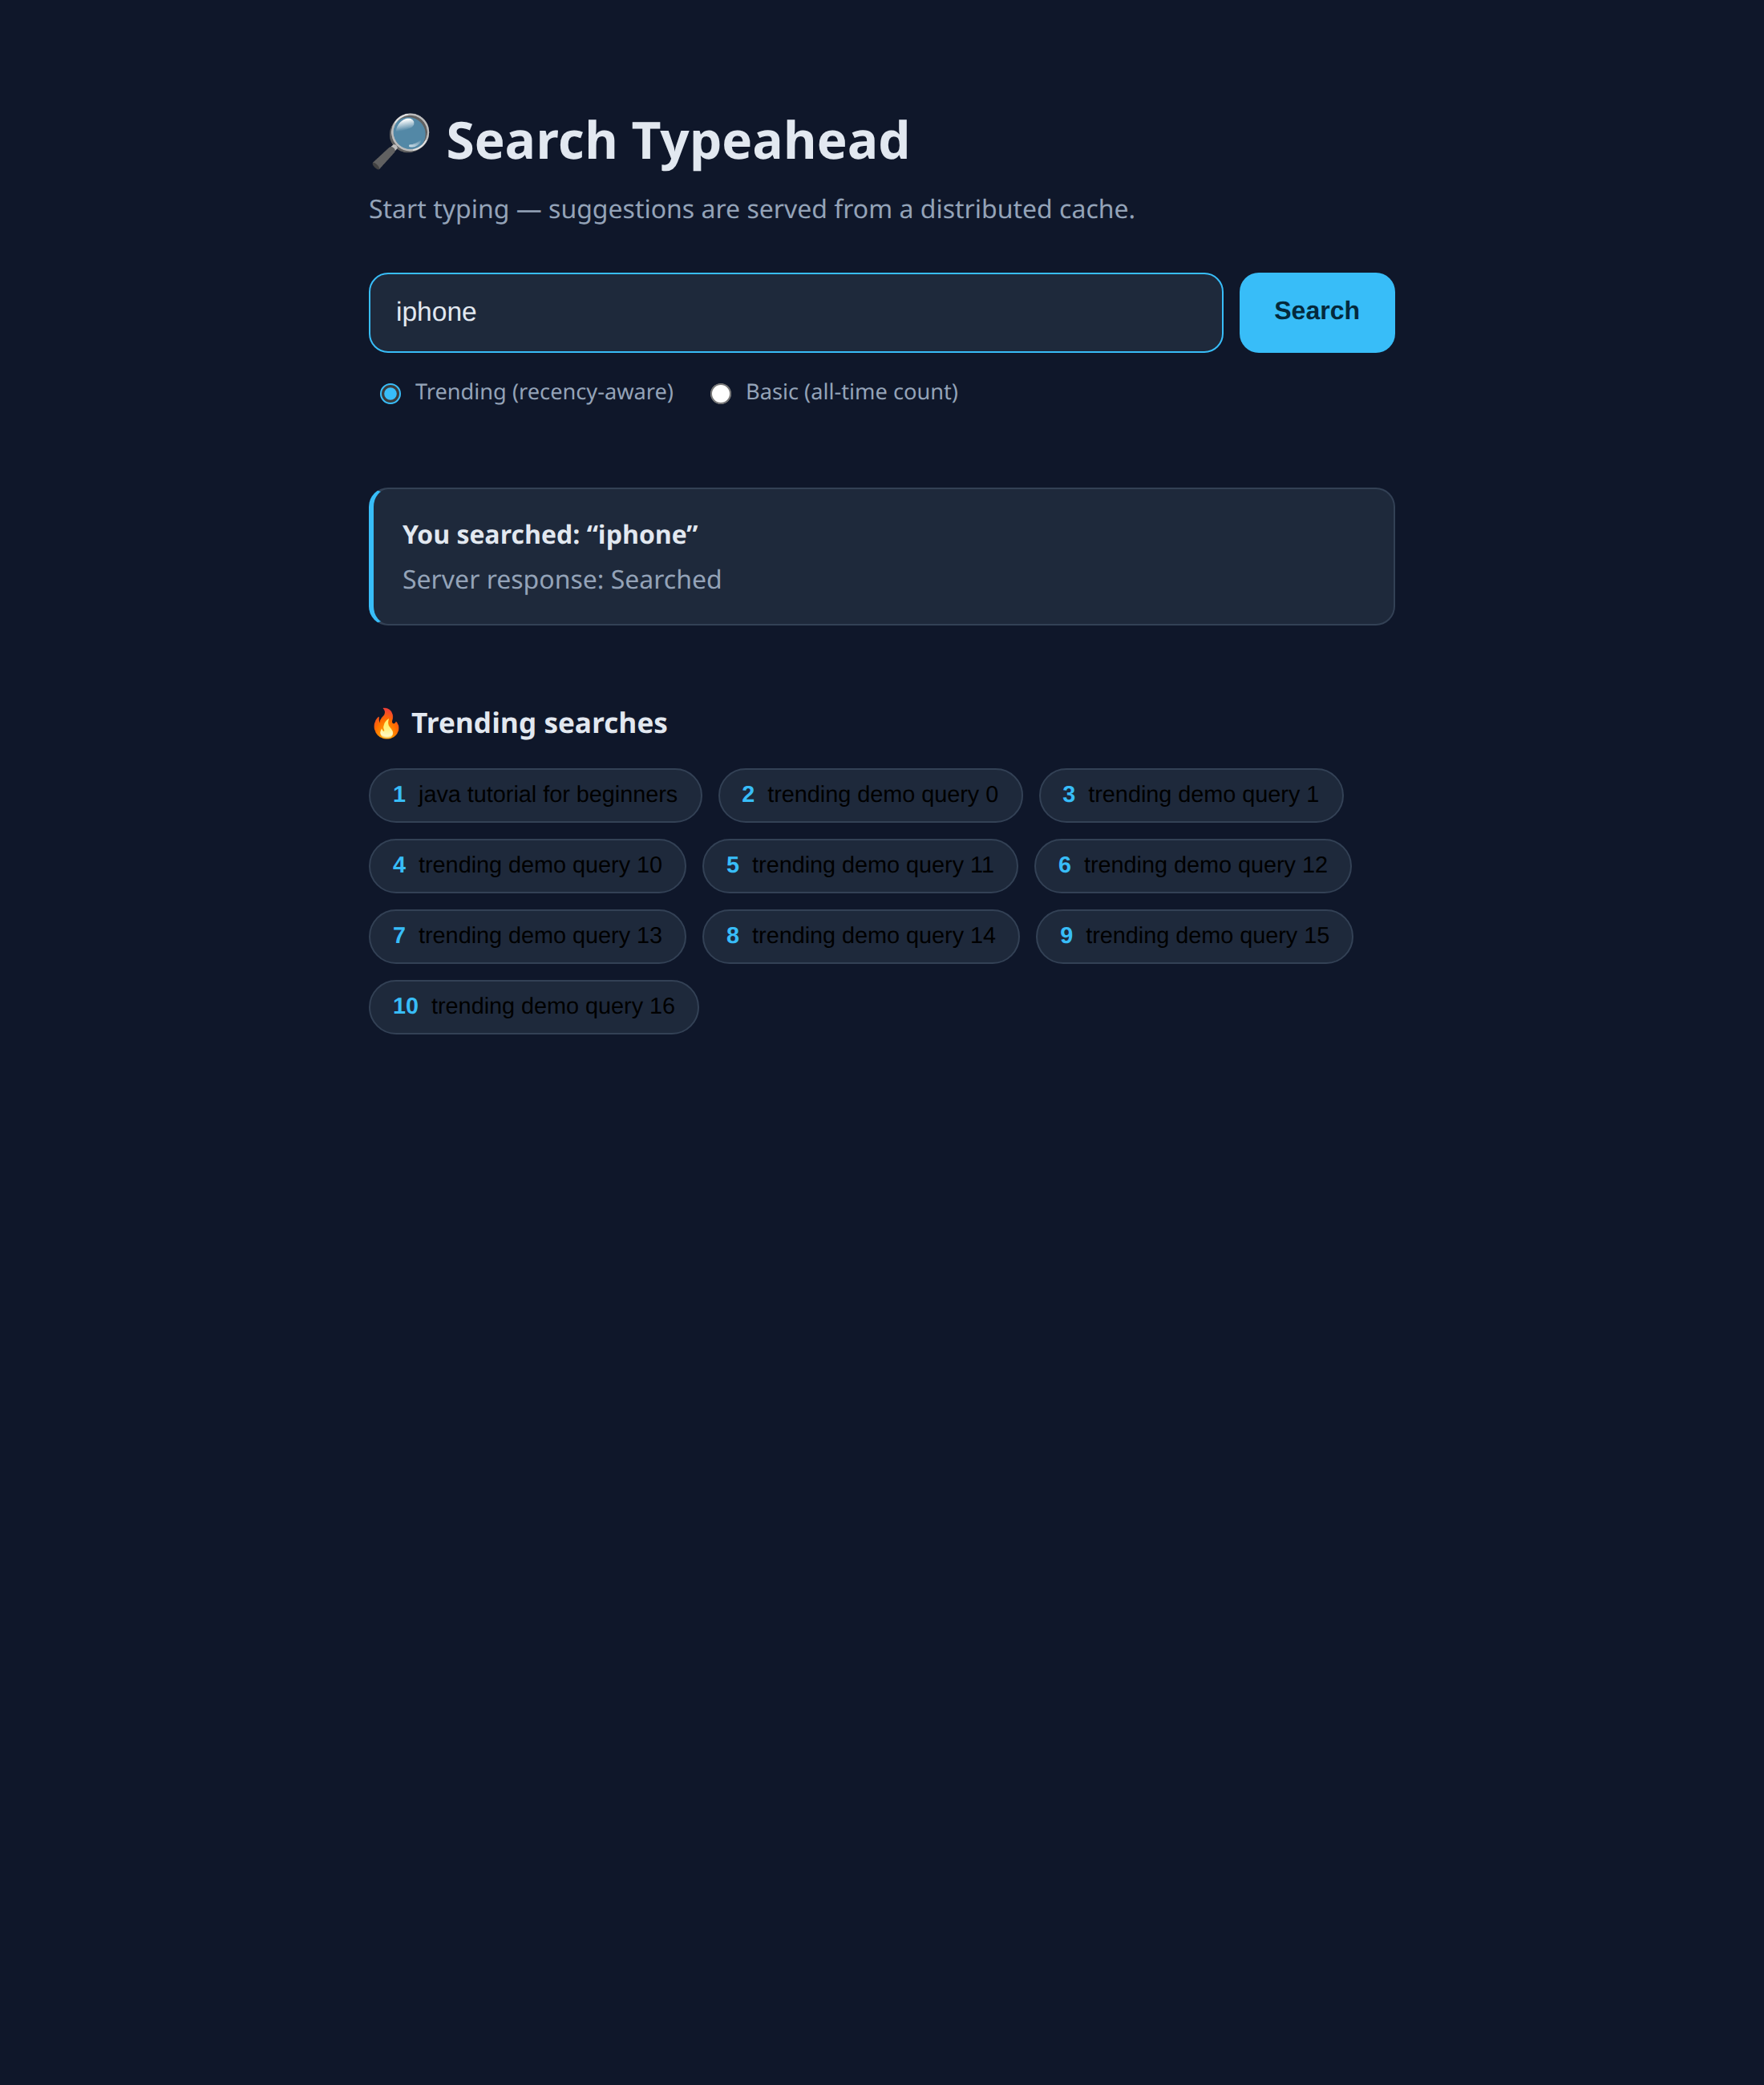
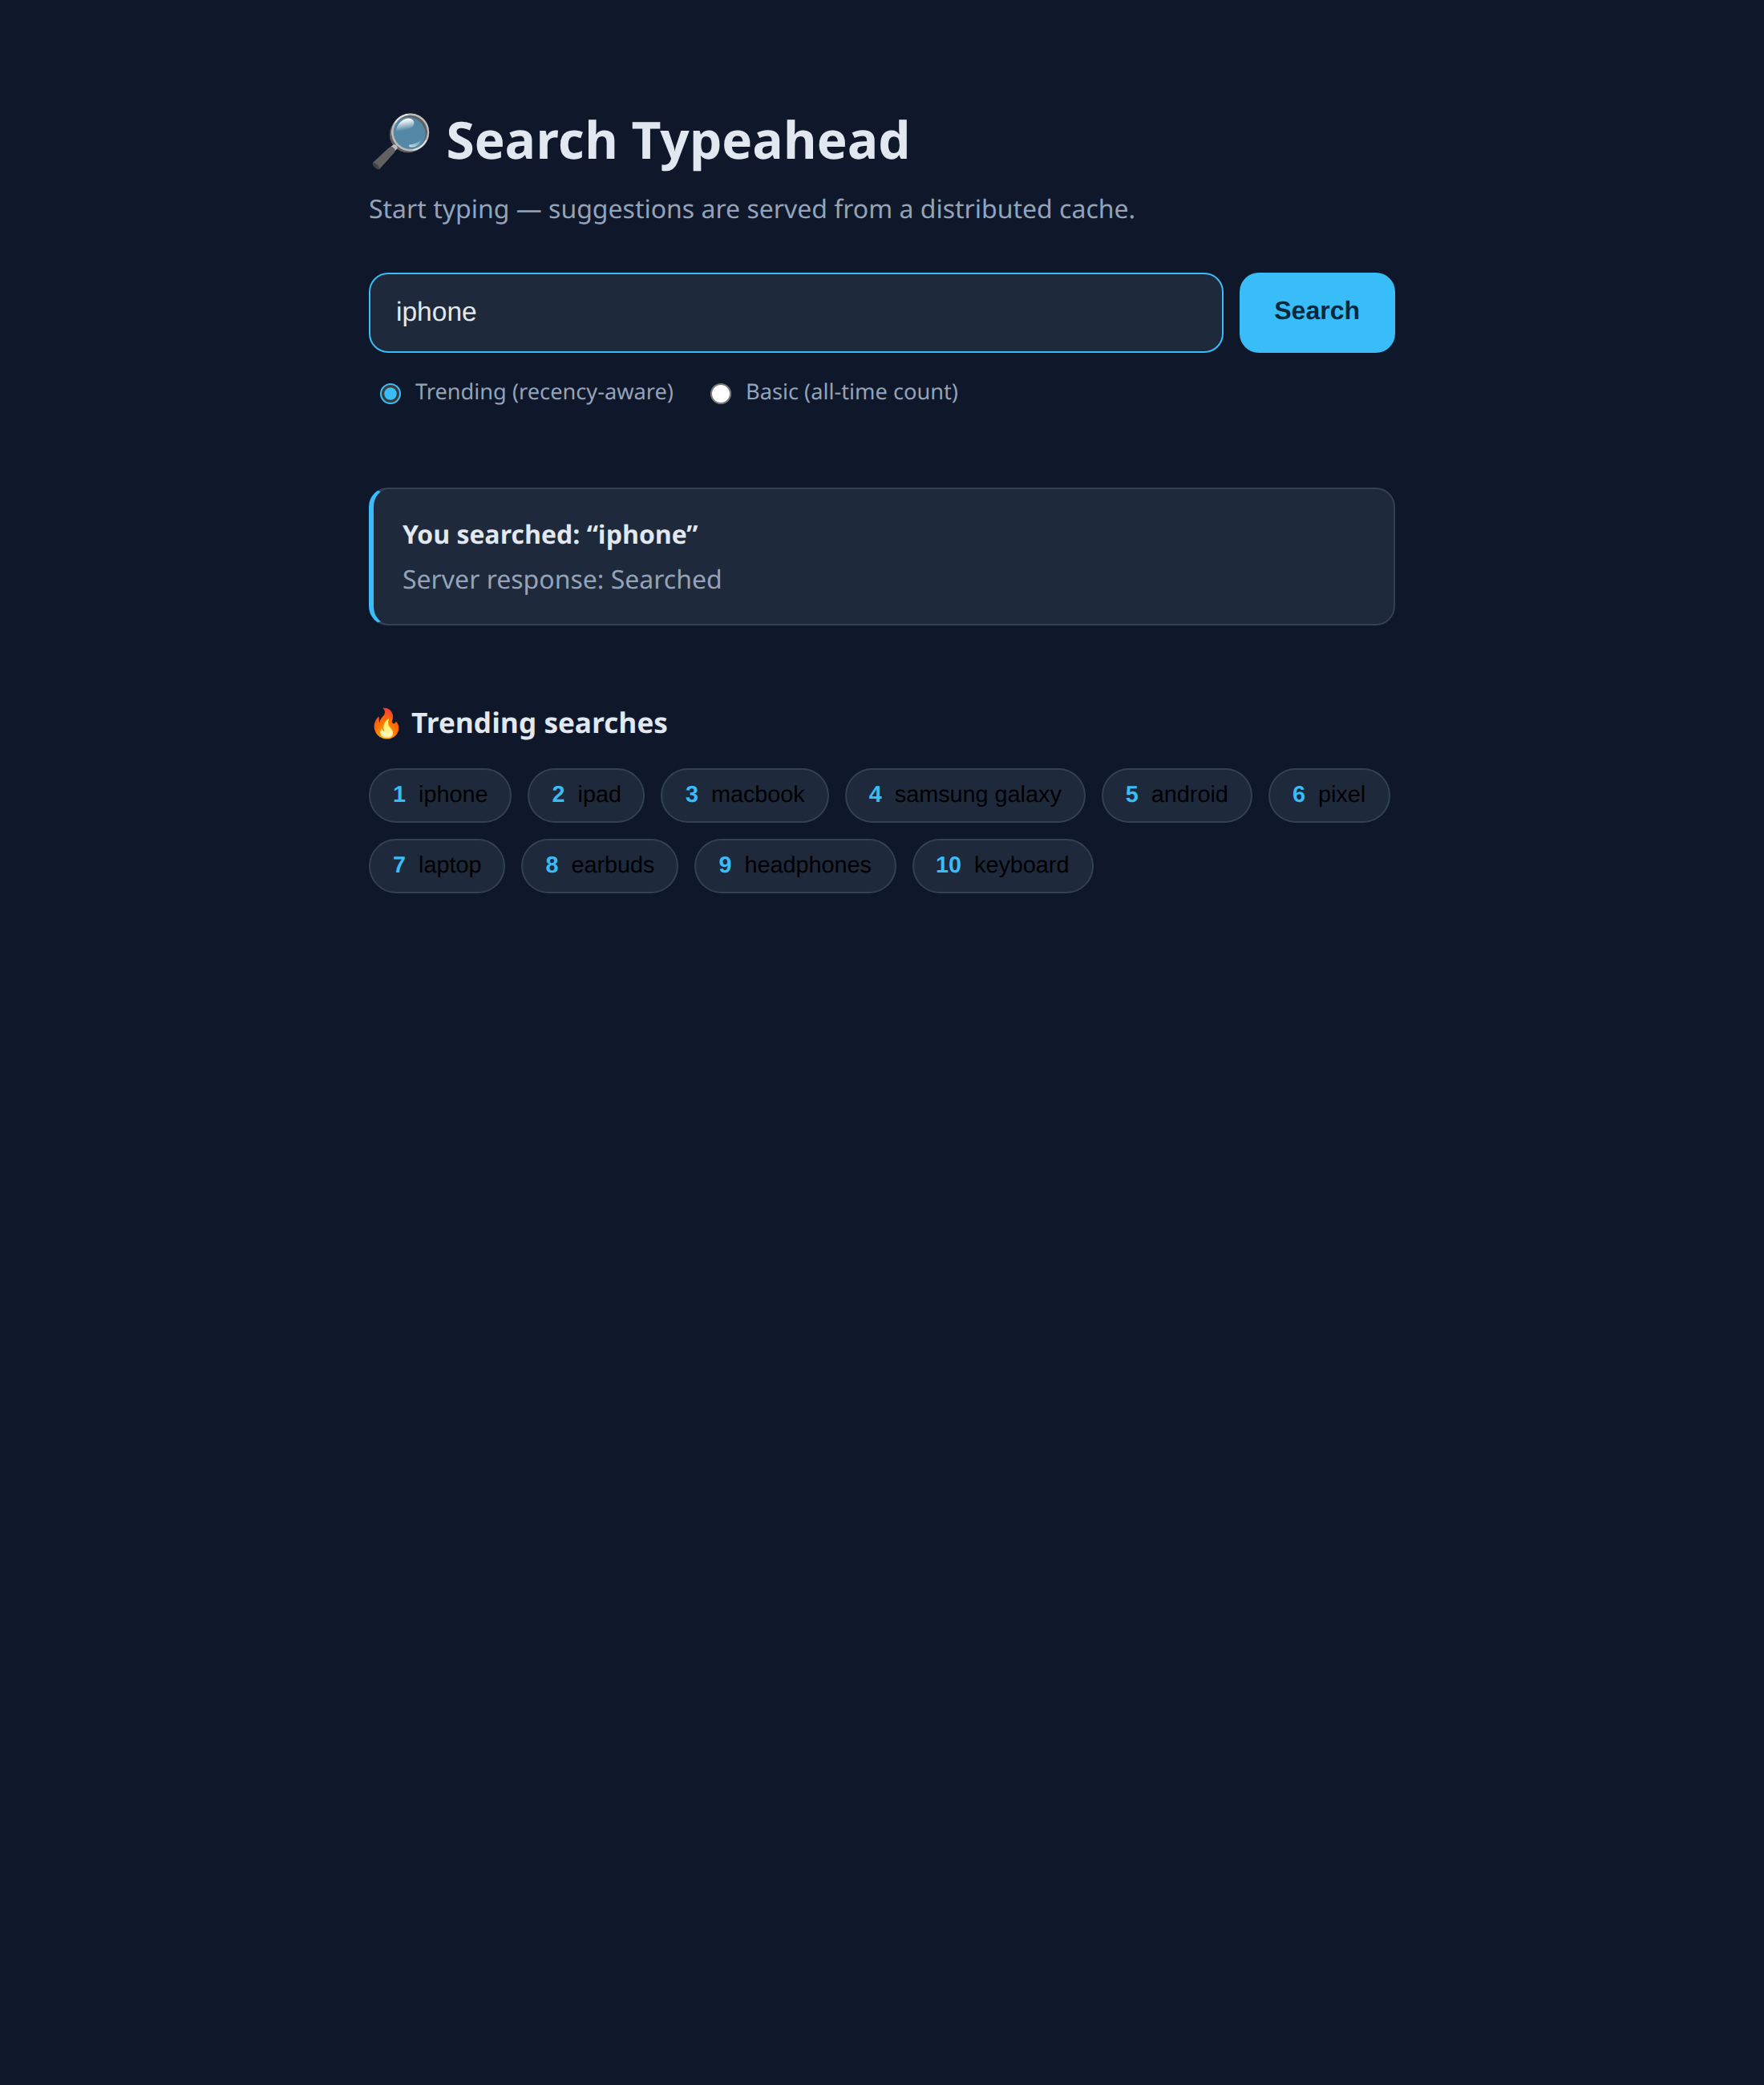
docs: add consolidated Project Report (HTML source + PDF)
- docs/report.html: single print-styled report covering architecture, dataset
  source/loading, API docs, design choices & trade-offs, performance report,
  requirements coverage, and how-to-run
- docs/Project-Report.pdf: 7-page PDF rendered from the report (submission-ready)
- regenerate screenshots against a clean dataset (real trending queries)

Changed region(s): [[0.2164, 0.3738, 0.7727, 0.4985]]

diff --git a/docs/report.html b/docs/report.html
@@ -1,0 +1,307 @@
+<meta charset="utf-8" />
+<title>Search Typeahead — Project Report</title>
+<style>
+  @page { size: A4; margin: 18mm 16mm; }
+  * { box-sizing: border-box; }
+  body {
+    font-family: "Segoe UI", Roboto, Helvetica, Arial, sans-serif;
+    color: #1f2937; line-height: 1.5; font-size: 11px; margin: 0;
+    -webkit-print-color-adjust: exact; print-color-adjust: exact;
+  }
+  h1 { font-size: 26px; margin: 0 0 4px; color: #0f172a; }
+  h2 { font-size: 17px; margin: 26px 0 8px; color: #0e7490;
+       border-bottom: 2px solid #e2e8f0; padding-bottom: 4px; page-break-after: avoid; }
+  h3 { font-size: 13px; margin: 16px 0 6px; color: #0f172a; page-break-after: avoid; }
+  p { margin: 6px 0; }
+  code { background: #f1f5f9; padding: 1px 5px; border-radius: 4px;
+         font-family: "SFMono-Regular", Consolas, monospace; font-size: 10px; }
+  pre { background: #0f172a; color: #e2e8f0; padding: 12px 14px; border-radius: 8px;
+        font-family: "SFMono-Regular", Consolas, monospace; font-size: 9.5px;
+        line-height: 1.35; overflow-x: auto; page-break-inside: avoid; }
+  table { border-collapse: collapse; width: 100%; margin: 10px 0; font-size: 10px;
+          page-break-inside: avoid; }
+  th, td { border: 1px solid #cbd5e1; padding: 5px 8px; text-align: left; vertical-align: top; }
+  th { background: #f1f5f9; }
+  .cover { border-bottom: 3px solid #0e7490; padding-bottom: 14px; margin-bottom: 6px; }
+  .muted { color: #64748b; }
+  .kpi { display: flex; gap: 10px; margin: 12px 0; }
+  .kpi div { flex: 1; background: #f0f9ff; border: 1px solid #bae6fd; border-radius: 8px;
+             padding: 10px; text-align: center; }
+  .kpi .n { font-size: 18px; font-weight: 700; color: #0369a1; display: block; }
+  .kpi .l { font-size: 9px; color: #475569; }
+  img { max-width: 100%; border: 1px solid #cbd5e1; border-radius: 8px; }
+  .shotrow { display: flex; gap: 10px; page-break-inside: avoid; }
+  .shotrow figure { margin: 0; flex: 1; }
+  figcaption { font-size: 9px; color: #64748b; text-align: center; margin-top: 4px; }
+  .ok { color: #15803d; font-weight: 700; }
+  .pill { background:#ecfeff; border:1px solid #a5f3fc; border-radius:999px; padding:1px 8px; font-size:9px; }
+  ul, ol { margin: 6px 0; padding-left: 20px; }
+  li { margin: 3px 0; }
+  .pb { page-break-before: always; }
+</style>
+
+<div class="cover">
+  <h1>Search Typeahead System — Project Report</h1>
+  <p class="muted">HLD101 Assignment · Author: <strong>Parth Dagia</strong> ·
+     Repository: <code>github.com/parthdagia05/HLS-ASSIGN</code></p>
+</div>
+
+<p>A backend-focused search typeahead (autocomplete) system, similar to the
+suggestion box in Google / Amazon / YouTube. It suggests popular queries as the
+user types, records searches, serves suggestions from a <strong>distributed
+cache</strong> (Redis nodes routed with <strong>consistent hashing</strong>),
+ranks results with a <strong>recency-aware "trending"</strong> score, and absorbs
+write pressure with <strong>batched writes</strong>.</p>
+
+<div class="kpi">
+  <div><span class="n">2.65 ms</span><span class="l">suggestion latency (server p95, warm)</span></div>
+  <div><span class="n">96%</span><span class="l">cache hit rate</span></div>
+  <div><span class="n">≈50×</span><span class="l">write reduction via batching</span></div>
+  <div><span class="n">~1/N</span><span class="l">keys remapped on node loss</span></div>
+</div>
+
+<p><strong>Tech stack:</strong> Python 3.12 + FastAPI · PostgreSQL 16 (primary
+store) · Redis (3 logical cache nodes, app-level consistent hashing) · plain
+HTML/CSS/JS frontend · Docker Compose for local infrastructure.</p>
+
+<!-- ============================ 1. ARCHITECTURE ============================ -->
+<h2>1. Architecture</h2>
+
+<p>Two independent paths. The <strong>read path</strong> (suggestions) is
+optimised for latency — cache first, database only on a miss. The
+<strong>write path</strong> (search submissions) is optimised for throughput —
+buffer in memory, aggregate, and write to the database in batches.</p>
+
+<pre>
+                ┌───────────────────────────────────────────────┐
+                │                Browser (frontend/)            │
+                │  search box · debounced /suggest · keyboard   │
+                │  nav · trending chips · basic/trending toggle │
+                └───────────────┬───────────────────────────────┘
+                                │  HTTP (JSON)
+                                ▼
+        ┌───────────────────────────────────────────────────────────┐
+        │                    FastAPI app (app/main.py)                │
+        │  GET /suggest → suggestions service                         │
+        │  POST /search → batch writer (buffer)                       │
+        │  GET /trending · /cache/debug · /metrics · POST /batch/flush│
+        └───────┬───────────────────────────┬───────────────┬────────┘
+                │ read path                  │ write path    │ metrics
+                ▼                            ▼               ▼
+   ┌────────────────────────┐   ┌────────────────────┐  ┌──────────────┐
+   │  Distributed cache      │   │   Batch writer      │  │  Metrics     │
+   │  consistent-hash ring   │   │  buffer + aggregate │  │ hit rate,    │
+   │  ┌──────┐┌──────┐┌────┐ │   │  + WAL + flush      │  │ DB r/w,      │
+   │  │redis1││redis2││ r3 │ │   └─────────┬──────────┘  │ p50/95/99    │
+   │  └──────┘└──────┘└────┘ │             │ one batched └──────────────┘
+   └───────────┬─────────────┘             │ write / flush
+               │ miss ↓ populate           ▼
+               └──────────────►  ┌────────────────────────────┐
+                                 │   PostgreSQL (app/db.py)     │
+                                 │   table `queries`            │
+                                 │   query, count, recent_score │
+                                 │   + prefix index             │
+                                 └────────────────────────────┘
+</pre>
+
+<h3>Data model</h3>
+<p>A single table keeps the system easy to reason about. The index
+<code>idx_queries_prefix ON queries (query text_pattern_ops)</code> makes
+<code>WHERE query LIKE 'prefix%'</code> use an index even on a UTF-8 database,
+which keeps prefix lookups fast at 120k rows.</p>
+<table>
+  <tr><th>Column</th><th>Meaning</th></tr>
+  <tr><td><code>query</code> (PK)</td><td>search string, stored normalised (lowercased, trimmed)</td></tr>
+  <tr><td><code>count</code></td><td>all-time number of searches — historical popularity</td></tr>
+  <tr><td><code>recent_score</code></td><td>time-decayed recent activity — drives trending</td></tr>
+  <tr><td><code>recent_score_updated_at</code></td><td>when recent_score was last refreshed (decay anchor)</td></tr>
+  <tr><td><code>last_searched_at</code></td><td>last submission time (diagnostics)</td></tr>
+</table>
+
+<h3>Concurrency model</h3>
+<p>Intentionally synchronous and simple: FastAPI runs sync endpoints in a
+threadpool; PostgreSQL access goes through a connection pool; the batch writer
+runs on its own daemon thread with lock-guarded shared state. No asyncio, so
+there are no <code>await</code> subtleties to explain.</p>
+
+<!-- ============================ 2. DATASET ============================ -->
+<h2 class="pb">2. Dataset — source &amp; loading</h2>
+<p>The system needs <code>query,count</code> rows (≥ 100,000 unique queries).</p>
+<ul>
+  <li><strong>Default (synthetic, reproducible):</strong>
+    <code>scripts/generate_dataset.py</code> builds <strong>120,000</strong>
+    unique queries from real-world head terms ("iphone", "java"…) + modifiers
+    ("review", "near me", "2024"…), with a <strong>Zipf-like (long-tail)</strong>
+    count distribution — the shape real search traffic has. It is deterministic
+    (fixed seed), so the dataset is identical on every run and needs no download.
+    Output: <code>data/queries.csv</code>.</li>
+  <li><strong>Using a real dataset instead:</strong> produce a CSV with a
+    <code>query,count</code> header (any open dataset of search queries / product
+    names / page titles; aggregate to derive counts if absent) and run
+    <code>python scripts/load_dataset.py --csv path/to/your.csv</code>.</li>
+</ul>
+<p><strong>Loading:</strong> <code>load_dataset.py</code> bulk-loads via
+PostgreSQL <code>COPY</code> into a staging temp table, then does a single
+<code>INSERT … ON CONFLICT DO UPDATE</code> into <code>queries</code> — fast, and
+idempotent (safe to re-run). Every query is normalised on load to match how the
+API normalises the user's prefix.</p>
+<pre>python scripts/generate_dataset.py        # writes data/queries.csv (120k rows)
+python scripts/load_dataset.py            # COPY → staging → upsert into queries</pre>
+
+<!-- ============================ 3. API ============================ -->
+<h2>3. API documentation</h2>
+<table>
+  <tr><th>Endpoint</th><th>Method</th><th>Purpose / behaviour</th></tr>
+  <tr><td><code>/suggest?q=&lt;prefix&gt;&amp;mode=</code></td><td>GET</td>
+      <td>Up to 10 prefix matches. <code>mode</code> = <code>basic</code> (all-time count) or <code>trending</code> (recency-aware). Empty/no-match → empty list, never an error.</td></tr>
+  <tr><td><code>/search</code></td><td>POST</td>
+      <td>Body <code>{"query":"…"}</code> → <code>{"message":"Searched"}</code>; records the query via the batch writer (no synchronous DB write).</td></tr>
+  <tr><td><code>/trending?limit=</code></td><td>GET</td>
+      <td>Currently trending searches (decayed recency, count as tie-breaker).</td></tr>
+  <tr><td><code>/cache/debug?prefix=</code></td><td>GET</td>
+      <td>Which cache node owns the prefix + whether it is a hit or a miss.</td></tr>
+  <tr><td><code>/metrics</code></td><td>GET</td>
+      <td>Cache hit rate, DB read/write counts, suggestion latency p50/p95/p99, per-node health.</td></tr>
+  <tr><td><code>/batch/flush</code></td><td>POST</td><td>Force a batch flush (for demos/tests).</td></tr>
+  <tr><td><code>/health</code></td><td>GET</td><td>Liveness + number of queries loaded.</td></tr>
+</table>
+<p class="muted">Interactive, auto-generated docs are also served at
+<code>/docs</code> (OpenAPI/Swagger).</p>
+<pre>curl "localhost:8000/suggest?q=iph&amp;mode=trending"
+  → {"prefix":"iph","mode":"trending","suggestions":[{"query":"iphone","count":5418280}, …]}
+
+curl -X POST localhost:8000/search -H 'Content-Type: application/json' -d '{"query":"iphone 15"}'
+  → {"message":"Searched","query":"iphone 15"}
+
+curl "localhost:8000/cache/debug?prefix=iph"
+  → {"node":"localhost:6391","status":"hit","cache_key":"suggest:trending:iph", …}</pre>
+
+<!-- ============================ 4. DESIGN ============================ -->
+<h2 class="pb">4. Design choices &amp; trade-offs</h2>
+
+<h3>Why PostgreSQL + an indexed prefix scan (not a trie / search engine)?</h3>
+<p>The dataset (100k–1M rows) is small enough that an indexed
+<code>LIKE 'prefix%'</code> returns the top 10 in single-digit milliseconds, and a
+relational table makes counts, recency and batched upserts trivial and durable.
+The cache absorbs the read volume, so the database is rarely the bottleneck. A
+trie or Elasticsearch would be the next step at much larger scale.</p>
+
+<h3>Why our own consistent hashing (not Redis Cluster)?</h3>
+<p>With plain <code>hash(key) % N</code>, adding/removing a node changes the
+bucket for almost every key, dumping the entire load onto the database at once.
+<strong>Consistent hashing</strong> places nodes and keys on a circle; a key
+belongs to the next node clockwise, so a node change only moves ~<code>1/N</code>
+of keys. Each physical node is placed at many points (<strong>virtual
+nodes</strong>, 150) so load is even. Doing it in app code keeps the interesting
+logic visible and explainable. <em>Trade-off:</em> we manage routing ourselves
+instead of getting it free from Redis Cluster — accepted, because the assignment
+is about understanding the mechanism.</p>
+
+<h3>Trending — recency-aware ranking (the 5 required points)</h3>
+<ol>
+  <li><strong>How recent searches are tracked:</strong> each row has
+    <code>recent_score</code>; on every search we decay the stored score by
+    elapsed time then add the new activity:
+    <code>recent_score = recent_score·e^(−λ·Δt) + delta</code>, with
+    <code>λ = ln2 / half_life</code> (default 10 min).</li>
+  <li><strong>How recency affects ranking:</strong> trending score =
+    <code>count + α · decayed_recent_score</code> (<code>α</code> scales recent
+    activity to be comparable to all-time counts), so a recently-hot query gets a
+    temporary boost.</li>
+  <li><strong>Avoiding permanent over-ranking of a brief spike:</strong> the
+    score <em>decays exponentially</em> — once the burst stops, the boost halves
+    every half-life and the query slides back to its count-based position.</li>
+  <li><strong>Cache update/invalidation when rankings change:</strong> a changed
+    query invalidates its prefixes' cached entries in both modes; short TTL is a
+    backstop. Basic and trending use separate cache keys.</li>
+  <li><strong>Trade-offs (freshness vs latency vs complexity):</strong> shorter
+    TTL / aggressive invalidation = fresher but more misses; the decay is computed
+    in SQL at read time, keeping writes simple at a tiny per-read cost. Defaults:
+    30s TTL, per-flush invalidation, 10-min half-life — all single config values.</li>
+</ol>
+
+<h3>Batch writes &amp; failure trade-offs</h3>
+<p>Writing to Postgres on every search is wasteful. Instead submissions are
+buffered and <strong>aggregated</strong> (repeated queries summed), then flushed
+in a single multi-row upsert either every <code>FLUSH_INTERVAL_SECONDS</code> or
+once <code>BATCH_SIZE</code> distinct queries are buffered. Result: ≈50× fewer DB
+writes.</p>
+<p><strong>What if it crashes before a flush?</strong> The buffer is in memory,
+so we add an optional <strong>write-ahead log</strong>: each submission is
+appended to a file; on flush we atomically rename the WAL aside, write the batch,
+then delete it; on startup we replay any leftover WAL. <em>Honest limits:</em> we
+flush to the OS but do not <code>fsync</code> per write (covers a process crash,
+not a power crash — a throughput trade-off), and recovery is
+<strong>at-least-once</strong> (a crash in the tiny window after commit but before
+deleting the WAL replays that batch — slight over-count). With the WAL disabled
+the writer is pure in-memory: faster, but a crash loses the un-flushed buffer.</p>
+
+<!-- ============================ 5. PERFORMANCE ============================ -->
+<h2 class="pb">5. Performance report</h2>
+<p class="muted">Measured locally (12-core Linux, Docker Postgres + 3 Docker
+Redis nodes, 120k-query dataset). Reproducible via <code>scripts/benchmark.py</code>,
+<code>batch_demo.py</code>, <code>cache_demo.py</code>.</p>
+
+<h3>5.1 Suggestion latency &amp; cache hit rate</h3>
+<p>Workload: 247 distinct prefixes; 6,000 warm requests at concurrency 12.</p>
+<table>
+  <tr><th>Metric</th><th>Cold (cache empty → DB)</th><th>Warm (cache populated)</th></tr>
+  <tr><td>client p50</td><td>22.1 ms</td><td>10.7 ms</td></tr>
+  <tr><td>client p95</td><td>34.6 ms</td><td>15.0 ms</td></tr>
+  <tr><td>client p99</td><td>38.4 ms</td><td>17.8 ms</td></tr>
+  <tr><td>throughput</td><td>—</td><td>~1,100 req/s</td></tr>
+</table>
+<p>Server-side suggestion latency (cache + DB, excluding HTTP overhead), from
+<code>/metrics</code>: <strong>p50 0.76 ms · p95 2.65 ms · p99 14.98 ms</strong>.
+<strong>Cache hit rate 96.0%</strong> (6,000 / 6,247). <strong>DB reads: 247</strong>
+— one per distinct prefix; every repeat served from cache (≈25× fewer DB reads).</p>
+
+<h3>5.2 Write reduction via batching</h3>
+<p>2,000 <code>POST /search</code> across 20 distinct queries:</p>
+<table>
+  <tr><th>Search submissions</th><th>DB row writes</th><th>Batch flushes</th><th>Reduction</th></tr>
+  <tr><td>2,000</td><td>40</td><td>2</td><td><strong>98% fewer (≈50×)</strong></td></tr>
+</table>
+
+<h3>5.3 Consistent-hashing behaviour</h3>
+<p>20,000 keys across 3 nodes (150 virtual nodes each):</p>
+<table>
+  <tr><th>Node</th><th>Keys</th><th>Skew vs even split</th></tr>
+  <tr><td>localhost:6391</td><td>6,396</td><td>−4.1%</td></tr>
+  <tr><td>localhost:6392</td><td>6,283</td><td>−5.8%</td></tr>
+  <tr><td>localhost:6393</td><td>7,321</td><td>+9.8%</td></tr>
+</table>
+<p>Removing a node remapped <strong>36.6%</strong> of keys (≈ the 33.3% target),
+versus ~100% for <code>hash % N</code>.</p>
+
+<h3>5.4 Crash recovery</h3>
+<p>30 buffered searches were submitted, the server was <code>kill -9</code>'d
+(no clean flush), and on restart the batch writer logged
+<code>recovered 30 searches from WAL</code> and the count appeared in Postgres —
+confirming buffered writes survive a process crash.</p>
+
+<h3>5.5 Screenshots</h3>
+<div class="shotrow">
+  <figure><img src="screenshots/typeahead.png" /><figcaption>Live typeahead dropdown (prefix highlighted, counts shown)</figcaption></figure>
+  <figure><img src="screenshots/search-result.png" /><figcaption>Search submission + dummy response + trending</figcaption></figure>
+</div>
+
+<!-- ============================ COVERAGE ============================ -->
+<h2 class="pb">Appendix A — Requirements coverage</h2>
+<table>
+  <tr><th>Rubric component (100 marks)</th><th>Status</th></tr>
+  <tr><td>Basic Implementation (60): dataset ingestion, search UI, suggestions API, search API, query-count updates, distributed cache w/ consistent hashing</td><td class="ok">Done ✓</td></tr>
+  <tr><td>Trending Searches (20): basic + recency-aware ranking, scoring/windowing explained, difference demonstrated</td><td class="ok">Done ✓</td></tr>
+  <tr><td>Batch Writes (20): buffer + aggregate + flush, write-reduction evidence, failure trade-offs</td><td class="ok">Done ✓</td></tr>
+</table>
+
+<h2>Appendix B — How to run</h2>
+<pre>cd search-typeahead
+docker compose up -d                       # Postgres + 3 Redis nodes
+python3 -m venv .venv && source .venv/bin/activate
+pip install -r requirements.txt
+python scripts/generate_dataset.py && python scripts/load_dataset.py
+uvicorn app.main:app                        # UI: http://localhost:8000  ·  API docs: /docs</pre>
+<p class="muted">Full source, comments, and the markdown versions of these
+sections are in the repository under <code>app/</code>, <code>docs/</code>, and
+<code>README.md</code>.</p>